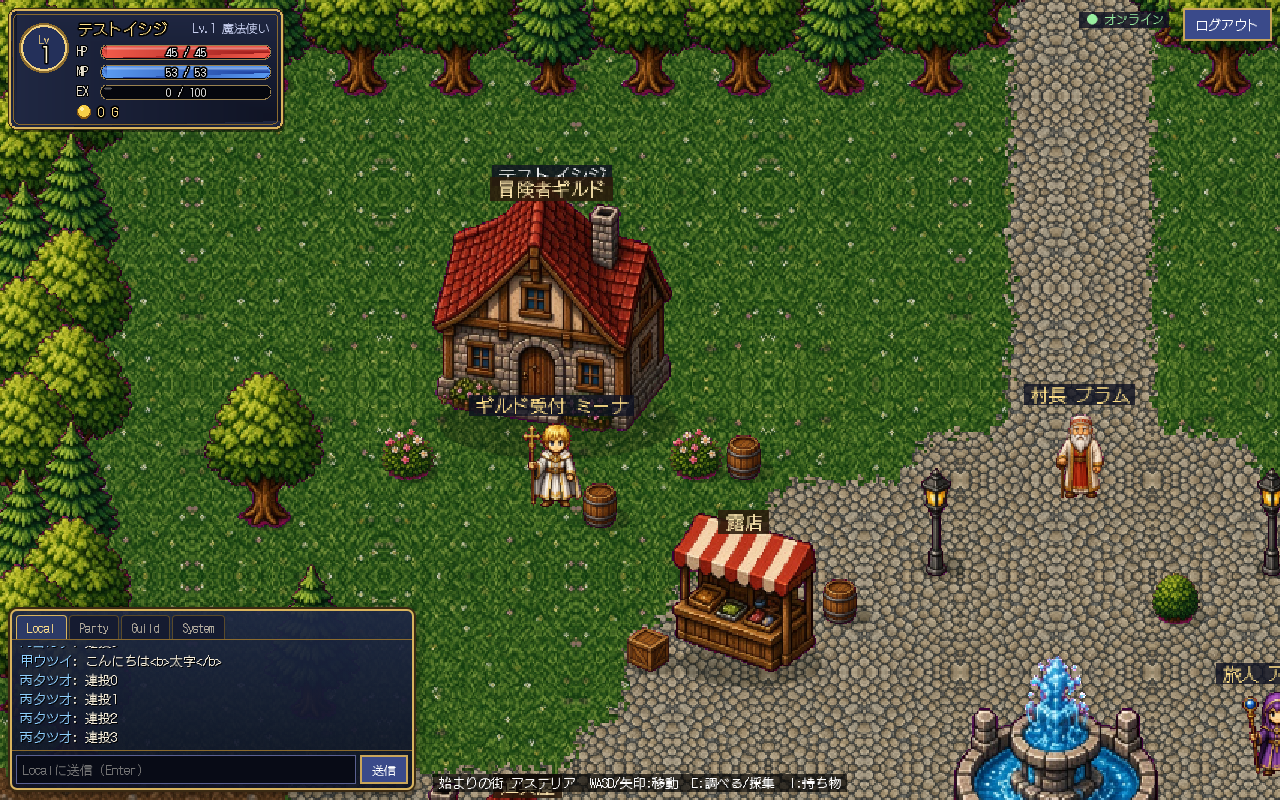
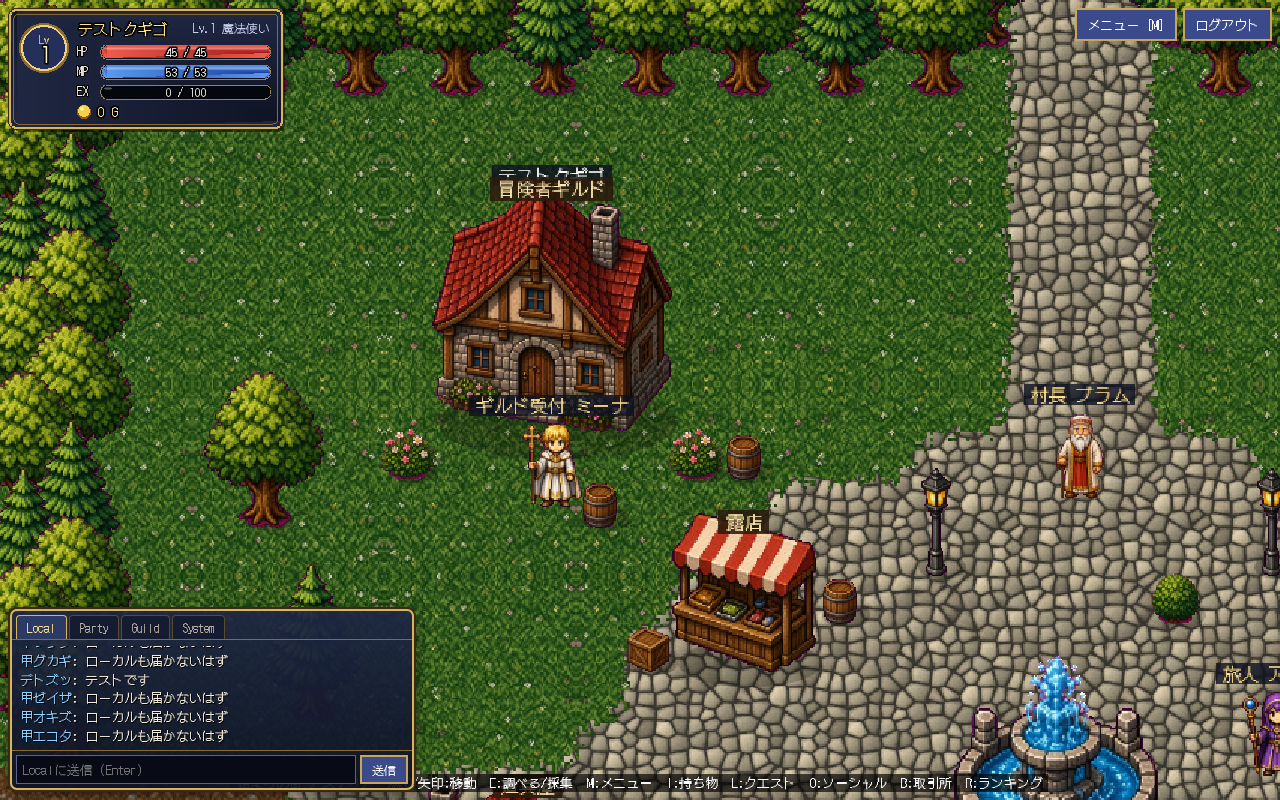
PHASE 10 docs: status, bugs (BUG-008 partial, 009/019 fixed, 022), TD-018/019, README, next tasks

diff --git a/DEVELOPMENT_STATUS.md b/DEVELOPMENT_STATUS.md
@@ -1,5 +1,5 @@
 # DEVELOPMENT STATUS（更新: 2026-11-12 JST）
-現在の段階: **PHASE 0・1・2 完了 + アート刷新（AI生成オリジナルスプライト）適用済** → PHASE 3 は未着手（コード無し）
+現在の段階: **PHASE 0〜10 完了（各フェーズの未実装項目は各節に明記）**。以下の冒頭表・「未実装」節は PHASE 2 時点の記録で、後続フェーズの節が最新
 
 ## 実装済み（テスト通過済みのもののみ）
 | 機能 | 検証 |
@@ -102,3 +102,18 @@
 - テスト: shared 57 / server 82（phase9-economy 9件）全通過、E2E phase9 24/24（2ブラウザ、UIで出品→検索→購入、履歴、取消、ギルド役職/譲渡/解散、ランキング）、phase7 27/27 回帰
 - スクショ: docs/screenshots/phase9-market-sell.png / phase9-market-browse.png / phase9-market-confirm.png / phase9-market-bought.png / phase9-market-history.png / phase9-guild-roles.png / phase9-ranking.png
 - 未実装（隠さず）: 装備の修理（耐久度の仕組みが無い）、ギルドレベル/ギルド倉庫、市場の価格履歴グラフ、取引所NPCの配置（キー操作で開く）
+
+## PHASE 10 UI・サウンド・セキュリティ・負荷試験・公開準備（2026-11-12）完了（テスト通過）
+- メニュー [M]／HUD「メニュー」ボタン: キャラクター（全ステータス）・装備/持ち物・スキル（職業スキル詳細）・クエスト・マップ（ミニマップ: 自分/NPC/出入口/ダンジョン）・フレンド/パーティー/ギルド・取引所・ランキング・お知らせ・設定。C/K/N の直接キー
+- 設定: BGM/効果音の音量、全ミュート（端末に保存）。サウンド: WebAudio 合成のオリジナルBGM（タイトル/街/草原/通常戦闘/ボス/ダンジョン/勝利/全滅）と効果音（攻撃/魔法/被弾/回復/レベルアップ/アイテム/強化/ボタン）（TD-018）
+- チャット: ウィスパー `/w 名前 本文`（[ささやき] 表示、オフライン/存在しない/ブロック時は日本語エラー）、ブロック/解除（ソーシャルパネル、ブロック中一覧）、発言制限の永続化（chat_mutes、再起動後も有効、制限中表示）
+- 運用: メンテナンスモード（一般ユーザーのAPI/ログイン/入室を拒否、スタッフ可、オンライン全員に通知、タイトル画面にバナー）、お知らせ（タイトル画面・メニュー・作成時に全員通知）、監査ログ（ログイン成功/失敗・管理操作）、管理API（status/logs/maintenance/announcements/mute/ban/grant、ロールは DB のみ）
+- セキュリティ: CSP 等のヘッダ、本番 HSTS、API no-store、WS メッセージ上限・Origin 検査、既定DBパスワードでの本番起動拒否、SQLインジェクション/不正JSON/巨大ボディ/権限昇格のテスト
+- 外見反映（BUG-008 一部）: 髪色・肌色・体型を自分/他プレイヤー/戦闘/ダンジョンで反映。石畳のシームレス化（BUG-009）、BUG-019 修正確認
+- スマホ: タッチ端末で仮想ジョイスティック（8方向）・E・MENU ボタン、狭い画面用のレイアウト。パネル/戦闘中はパッドを隠す
+- 負荷試験: 1プロセスで 50 / 100 同時接続、遅延 p99 64ms / 67ms、取りこぼし・補正・エラー 0（docs/LOAD_TEST.md）
+- 公開準備: .env.example 更新、docs/DEPLOY.md、Dockerfile / docker-compose.yml（**未検証**）、本番ビルドの同一オリジン配信を prod-smoke E2E で確認
+- テスト: shared 57/57、server 96/96（phase10-security-ops 14件）、E2E phase10 34/34、prod-smoke 3/3、回帰 E2E_RESULTS_PLACEHOLDER
+- スクショ: docs/screenshots/phase10-title-maintenance / appearance / cobble / menu / map / settings / whisper / block / maintenance-notice / mobile / mobile-menu / production-build（.png）
+- 未実装・制約（隠さず）: 髪型の反映、魔法使いの髪色、管理画面UI（APIのみ）、Docker/実ホスティング/TLS は未検証（費用・アカウントが必要なため未実施）、混合負荷・複数プロセス構成は未試験、サウンドの音質は人の耳で未確認、パスワード再設定/メール確認は未実装
+

diff --git a/BUG_TRACKER.md b/BUG_TRACKER.md
@@ -8,8 +8,8 @@
 | BUG-005 | 2026-10-31 | 禁止語「gm」が部分一致のため無関係な名前も拒否される | **修正済**（英字禁止語は単語単位一致、日本語は部分一致。Sigma/Ogma許可・GM2拒否のテスト追加） | — |
 | BUG-006 | 2026-10-31 | 名前タグが屋根越しに透けて見える | **修正済**（タグ深度を所有者の足元y+0.2でYソート） | — |
 | BUG-007 | 2026-10-31 | 縦柵スプライトが細い棒に見える（仮素材） | 一部改善（生成素材の柵柱を流用。横木無し） | 縦柵専用スプライトを生成 |
-| BUG-008 | 2026-10-31 | キャラ作成の外見（髪色/肌色/体型/髪型）が新スプライトに反映されない（職業別シート固定） | 未修正 | パーツ別生成 or パレット置換 |
-| BUG-009 | 2026-10-31 | 地面テクスチャがミラー合成のため石畳に菱形の繰り返し模様が見える | 未修正（軽微） | 非ミラーのシームレス化 |
+| BUG-008 | 2026-10-31 | キャラ作成の外見（髪色/肌色/体型/髪型）が新スプライトに反映されない（職業別シート固定） | **一部修正 2026-11-12**: 髪色・肌色・体型をランタイムの色置換/横幅拡大で反映（`client/src/art/look.ts`、自分/他プレイヤー/戦闘/ダンジョン）。E2E phase10「recoloured appearance texture」「other player sees A's appearance」PASS、スクショ phase10-appearance.png。**未対応: 髪型（描き済みシートのため変えられない）、魔法使いの髪色（フードで隠れるので肌色のみ）** | 髪型はパーツ別スプライト生成が必要 |
+| BUG-009 | 2026-10-31 | 地面テクスチャがミラー合成のため石畳に菱形の繰り返し模様が見える | **修正済 2026-11-12**（`scripts/gen-cobble.py` でトーラス状ボロノイのシームレス石畳を生成し ground.png の石畳枠を置換。スクショ phase10-cobble.png で継ぎ目・菱形なしを目視確認） | — |
 | BUG-010 | 2026-10-31 | 切出しスクリプトの行判定が丸めで小物名がずれる | 修正済（整数除算に変更、コンタクトシートで目視確認） | — |
 
 ## PHASE 3
@@ -32,8 +32,9 @@
 | BUG-016 | 2026-10-31 | E2E の tp 直後に飛行中のルーム move がDBを旧座標へ戻し採集失敗 | 修正済（tp前に250ms待機） |
 | BUG-017 | 2026-10-31 | 村長ブラムが噴水と重なって見える | 修正済（22.5,10.4 へ移動） |
 | BUG-018 | 2026-11-01 | ソーシャルパネルのボタンがクリックできない（#ui の pointer-events:none を継承） | 修正済 |
-| BUG-019 | 2026-11-01 | 名札の「⚔」がドットフォントに無く代替グリフ（×風）で表示される | 未修正（軽微） |
+| BUG-019 | 2026-11-01 | 名札の「⚔」がドットフォントに無く代替グリフ（×風）で表示される | **修正済**（戦闘中表示を「[戦闘中] 名前」に変更。client に ⚔ が残っていないことを grep で確認、phase7 E2E 合格） |
 | BUG-012 | 追記 | phase3 残フレーク: 今回10連続合格で再現せず。原因未特定のため観察継続 | 観察中 |
 | BUG-020 | 2026-11-12 | 戦闘リザルトでレベルアップ演出中（約0.7秒）に「戻る」を押しても反応しない（onclick の設定が演出の await 後だった） | 修正済（先にハンドラ設定）。phase8 E2E で検出 |
 | BUG-012 | 追記 2026-11-12 | phase3 E2E: 今回も合格（20/20）。再現せず観察継続 | 観察中 |
 | BUG-021 | 2026-11-12 | 取引所パネル内のボタンにフォーカスがあると Esc が届かずパネルが閉じない（キー伝播をパネル全体で止めていた） | 修正済（入力欄のみ伝播停止）。phase9 E2E で検出 |
+| BUG-022 | 2026-11-12 | E2E phase10: ブロック確認が過去実行のチャット履歴（同文面）に一致して誤FAIL／5通/10秒のチャット制限に当たる | 修正済（テスト側: 送信者名付きで照合、送信間隔を空ける）。サーバーのブロック処理自体は単体テスト＋手動WSスクリプトで正常を確認 | E2E の照合は一意な識別子を含める |

diff --git a/TECHNICAL_DECISIONS.md b/TECHNICAL_DECISIONS.md
@@ -64,3 +64,17 @@
 - 手数料は出品時の率を fee_rate に保存（将来の率変更が既存出品に影響しない）。fee=max(1,floor(price×0.05))
 - 期限切れは購入時/一覧時に判定（スイープ不要）、出品者が「回収」で返却。返却/購入には空き枠が必要（inventory_full）
 - ランキングは集計クエリ＋プロセス内30秒キャッシュ（単一プロセス前提）
+## TD-018 サウンド（PHASE 10）
+- 外部音源ファイルを使わず、WebAudio でブラウザ内合成したオリジナル曲/効果音（`client/src/audio.ts`）。ライセンス問題なし・アセット0KB
+- BGM: title / town / meadow / battle / boss / dungeon / victory / defeat（forest は未使用マップ用に定義のみ）。効果音: 攻撃・魔法・被弾・回復・レベルアップ・アイテム・強化・メニュー
+- ブラウザの自動再生制限のため最初のクリック/キー入力で AudioContext を再開。音量（BGM/SE）とミュートは localStorage `astral.audio`
+- 制約: チップチューン風の簡易合成。実音質の確認は人の耳で未実施（E2E は選曲状態と設定保存のみ検証）
+## TD-019 運用・セキュリティ・デプロイ（PHASE 10）
+- migration 009: audit_logs / server_settings(maintenance) / announcements / chat_mutes / character_blocks
+- ロールは users.role（player/gm/admin）を毎リクエスト DB から解決。管理 API `/api/admin/*` はロール検査＋レート制限＋監査ログ。管理画面 UI は作らず API のみ
+- メンテナンス: 一般ユーザーの API(503)・ログイン・ルーム入室を拒否、スタッフは通過。値は2秒キャッシュ。切替時にオンライン全員へ system_notice
+- BAN: 全セッション失効＋接続中なら切断。補填付与は grantId で冪等（transactions 一意キー）
+- HTTP ヘッダ: CSP（script-src 'self'、connect-src 'self' ws: wss:）、nosniff、X-Frame-Options DENY、Referrer-Policy no-referrer、COOP、本番のみ HSTS、/api は no-store。WS は maxPayload 16KB、ALLOWED_ORIGINS で Origin 検査、TRUST_PROXY 対応
+- 本番は1プロセスが client/dist を同一オリジン配信（クライアントは PROD ビルドで同一オリジンの WS に接続）。既定DBパスワードのままの本番起動は拒否
+- Dockerfile / docker-compose.yml は用意したが Docker が箱に無く**未検証**。本番ビルドの同一オリジン配信は `client/e2e/prod-smoke.mjs` で検証済
+- チャット: ウィスパー（/w 名前 本文、相手がオンライン＆未ブロック時のみ）、ブロック（双方向の申請拒否・発言非表示・フレンド解除）、ミュートは chat_mutes に永続化（スパム自動ミュート/GMミュート、再起動後も有効）

diff --git a/NEXT_TASKS.md b/NEXT_TASKS.md
@@ -1,12 +1,11 @@
 # NEXT TASKS（優先順）
-0. **PHASE 10**: UI改善、サウンド、セキュリティ、負荷試験、公開準備
+※ PHASE 0〜10 は完了。以下は残り（上ほど優先）
+0. **オーナー判断待ち**: ホスティング先/費用、GitHub リポジトリ作成と push、AI生成アートの商用利用方針・正式アート発注、ドメイン/TLS
+0. PHASE 10 残: 管理画面UI、Docker 実機検証、混合負荷/複数プロセス試験、パスワード再設定・メール確認、髪型の見た目反映（パーツ別スプライト）
 0. PHASE 9 残: 修理（耐久度）、ギルドレベル/倉庫、価格履歴
 0. PHASE 8 残: ダンジョン4種（忘れられた鉱山/闇の森林/砂漠の神殿/星晶の塔）、ダンジョン内の歩行マップ、ボス専用アート・ダンジョン戦闘背景
-0. PHASE 7 残: ブロック、ウィスパー、ミュート永続化、BUG-019
-1. **PHASE 3: 戦闘基礎** — フィールド「緑の草原」マップ、フィールドシンボルエンカウント、コマンド選択式ターン制戦闘（SECTION 08 の式、サーバー確定）、EXP/ドロップ付与（`grantExp`使用）、レベルアップ演出の画面確認
-2. PHASE 4 先行: Colyseus `onAuth` でセッション検証、位置のサーバー権威同期と保存
 3. マスターデータ seed（is_dummy で区別）
-4. アート残課題: 歩行アニメ/斜めフレーム、BUG-008（外見反映）、BUG-009、草原マップ用素材
+4. アート残課題: 斜めフレーム、髪型反映（BUG-008残）、ボス/ダンジョン専用アート、草原マップ用素材
 - 保留（ユーザー確認）: GitHub リポジトリ作成/push、ホスティング/課金、AI生成アートの商用利用方針・正式アート素材の発注/購入
 
 ## 変更履歴
@@ -34,3 +33,4 @@
 - phase3 残フレークの観察（再現時は B2 のJSONを確認）
 - 2026-11-12: PHASE 8 完了
 - 2026-11-12: PHASE 9 完了
+- 2026-11-12: PHASE 10 完了（PHASE 7 残のウィスパー/ブロック/ミュート永続化、BUG-008一部/009/019 も対応）

diff --git a/README.md b/README.md
@@ -38,7 +38,8 @@ python3 scripts/cut-sprites.py      # assets/raw/*.jpg（AI生成原画）→ cl
 `scripts/db-backup.sh` → `backups/*.dump`。復旧: `pg_restore -h 127.0.0.1 -p 5433 -U astral -d astral --clean <file>`
 
 ## デプロイ
-未整備（PHASE 10）。本番環境の分離、TLS(wss)終端、Dockerfile は未作成。
+`docs/DEPLOY.md` 参照（本番ビルド・同一オリジン配信・管理者設定・管理API）。Dockerfile / docker-compose.yml は**未検証**（箱に Docker 無し）。
+本番ビルド確認: `npm run build` → `NODE_ENV=production DATABASE_URL=<既定以外のパスワード> node server/dist/index.js` → `cd client && E2E_URL=http://127.0.0.1:2567/ node e2e/prod-smoke.mjs`
 
 ## API（PHASE 2）
 `GET /api/classes` `GET /api/exp-table` `POST /api/auth/register|login` `POST /api/auth/logout`※ `GET /api/me`※ `GET|POST /api/characters`※（※ `Authorization: Bearer <token>`）
@@ -61,3 +62,10 @@ python3 scripts/cut-sprites.py      # assets/raw/*.jpg（AI生成原画）→ cl
 
 ## PHASE 9
 取引所 [B]（アステリア内）、ランキング [R]、ギルド管理はソーシャル [O]。E2E: `cd client && node e2e/phase9.mjs`（約1分。ランキングのキャッシュ待ち31秒を含む）
+
+## PHASE 10
+- 操作: M=メニュー（キャラクター/装備・持ち物/スキル/クエスト/マップ/ソーシャル/取引所/ランキング/お知らせ/設定）、C=キャラクター、K=スキル、N=マップ、チャット `/w 名前 本文` でささやき
+- スマホ（タッチ端末）: 仮想ジョイスティック・E ボタン・MENU ボタン
+- 管理者: `UPDATE users SET role='admin' WHERE email='...'` → `/api/admin/*`（docs/DEPLOY.md）
+- E2E: `cd client && node e2e/phase10.mjs`（3ブラウザ、約3分）。負荷試験: docs/LOAD_TEST.md
+
